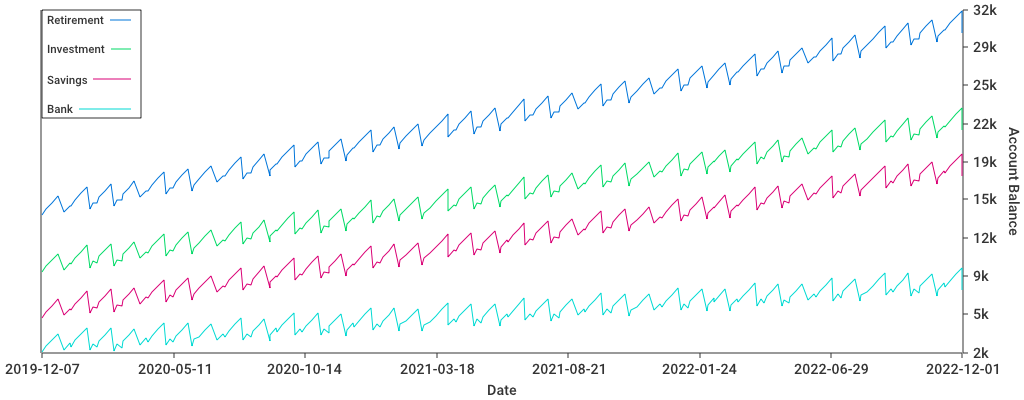
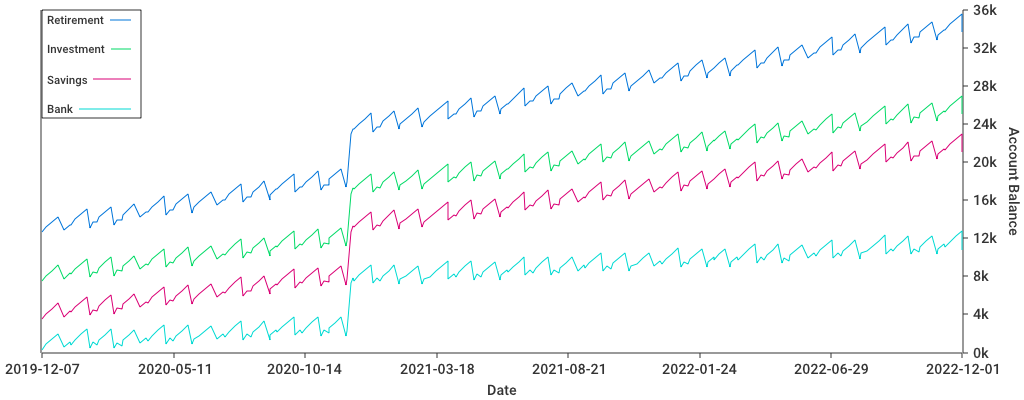
Rework schedules; add "Once" type

diff --git a/portfolio.go b/portfolio.go
@@ -7,9 +7,9 @@ import (
 
 // Portfolio represents a person's financial portfolio.
 type Portfolio struct {
-	Accounts              []*Account
-	ScheduledTransactions []*ScheduledTransaction
-	ManualAdjustments     []*ManualAdjustment
+	Accounts          []*Account
+	Transactions      []*Transaction
+	ManualAdjustments []*ManualAdjustment
 }
 
 // ProjectionRecord is a record in a projection.
@@ -26,9 +26,6 @@ func (p *Portfolio) Project(from, to time.Time) []ProjectionRecord {
 		if adj.Time.Before(from) {
 			adj.Apply(adj.Time)
 		}
-	}
-	for _, trans := range p.ScheduledTransactions {
-		trans.lastApplied = from
 	}
 
 	var recs []ProjectionRecord
@@ -48,7 +45,7 @@ func (p *Portfolio) Project(from, to time.Time) []ProjectionRecord {
 			}
 		}
 
-		for _, trans := range p.ScheduledTransactions {
+		for _, trans := range p.Transactions {
 			if trans.Apply(now) {
 				changed = true
 			}
@@ -99,16 +96,16 @@ func (p *Portfolio) NewManualAdjustment(acc *Account, t time.Time, balance float
 	p.ManualAdjustments = newArr
 }
 
-// NewScheduledTransaction adds a new scheduled transaction to the portfolio.
-func (p *Portfolio) NewScheduledTransaction(from, to *Account, desc string, f Frequency, amt float32) *ScheduledTransaction {
-	t := &ScheduledTransaction{
+// NewTransaction adds a new transaction to the portfolio.
+func (p *Portfolio) NewTransaction(from, to *Account, desc string, s Schedule, amt float32) *Transaction {
+	t := &Transaction{
 		Description: desc,
-		Frequency:   f,
+		Schedule:    s,
 		FromAccount: from,
 		ToAccount:   to,
 		Amount:      amt,
 	}
-	p.ScheduledTransactions = append(p.ScheduledTransactions, t)
+	p.Transactions = append(p.Transactions, t)
 	return t
 }
 
@@ -131,71 +128,103 @@ func (a *ManualAdjustment) Apply(now time.Time) bool {
 	return true
 }
 
-// Frequency determines the next time for a scheduled transaction to be applied, based on the last time it was applied.
-type Frequency interface {
-	Next(time.Time) time.Time
+// Schedule determines the next time for a transaction to be applied, based on the last time it was applied.
+type Schedule interface {
+	ShouldApply(time.Time) bool
 }
 
-// Weekly frequency will run weekly on the given weekday.
-func Weekly(day time.Weekday) Frequency {
-	return weeklyFrequency{day}
-}
-
-type weeklyFrequency struct {
-	weekday time.Weekday
-}
-
-func (f weeklyFrequency) Next(t time.Time) time.Time {
-	n := t.AddDate(0, 0, 7)
-	for n.Weekday() != f.weekday {
-		n = n.AddDate(0, 0, -1)
+// Weekly schedule will run weekly on the given weekday.
+func Weekly(day time.Weekday) Schedule {
+	return &weeklySchedule{
+		weekday: day,
 	}
-	return n
 }
 
-type monthlyFrequency struct {
-	day int
-}
-
-// Monthly frequency will run monthly on the given day of the month.
-func Monthly(day int) Frequency {
-	return monthlyFrequency{day}
-}
-
-func (f monthlyFrequency) Next(t time.Time) time.Time {
-	year, month, _ := t.AddDate(0, 1, 0).Date()
-	return time.Date(year, month, f.day, 0, 0, 0, 0, time.Local)
-}
-
-// ScheduledTransaction is a scheduled transaction from one account to another on a set frequency.
-// If FromAccount or ToAccount is nil, this transaction represents money in/out of the portfolio (payments, income, etc.).
-// Otherwise it is a transfer between two accounts in the portfolio.
-type ScheduledTransaction struct {
-	Description string
-	Frequency   Frequency
-	FromAccount *Account
-	ToAccount   *Account
-	Amount      float32
+type weeklySchedule struct {
+	weekday     time.Weekday
 	lastApplied time.Time
 }
 
-// Apply the scheduled transaction.
-func (s *ScheduledTransaction) Apply(now time.Time) bool {
-	next := s.Frequency.Next(s.lastApplied)
-	if now.Before(next) {
+func (s *weeklySchedule) ShouldApply(t time.Time) bool {
+	n := s.lastApplied.AddDate(0, 0, 7)
+	for n.Weekday() != s.weekday {
+		n = n.AddDate(0, 0, -1)
+	}
+	if t.Before(n) {
+		return false
+	}
+	s.lastApplied = t
+	return true
+}
+
+type monthlySchedule struct {
+	day         int
+	lastApplied time.Time
+}
+
+// Monthly schedule will run monthly on the given day of the month.
+func Monthly(day int) Schedule {
+	return &monthlySchedule{
+		day: day,
+	}
+}
+
+func (s *monthlySchedule) ShouldApply(t time.Time) bool {
+	year, month, _ := s.lastApplied.AddDate(0, 1, 0).Date()
+	if t.Before(time.Date(year, month, s.day, 0, 0, 0, 0, time.Local)) {
+		return false
+	}
+	s.lastApplied = t
+	return true
+}
+
+type onceSchedule struct {
+	time    time.Time
+	applied bool
+}
+
+// Once schedule will run once at the given time.
+func Once(t time.Time) Schedule {
+	return &onceSchedule{
+		time: t,
+	}
+}
+
+func (s *onceSchedule) ShouldApply(t time.Time) bool {
+	if s.applied || t.Before(s.time) {
+		return false
+	}
+	s.applied = true
+	return true
+}
+
+// Transaction is a transaction from one account to another.
+// It may have a schedule to repeat the transaction on some interval.
+// If FromAccount or ToAccount is nil, this transaction represents money in/out of the portfolio (payments, income, etc.).
+// Otherwise it is a transfer between two accounts in the portfolio.
+type Transaction struct {
+	Description string
+	Schedule    Schedule
+	FromAccount *Account
+	ToAccount   *Account
+	Amount      float32
+}
+
+// Apply the transaction.
+func (t *Transaction) Apply(now time.Time) bool {
+	if !t.Schedule.ShouldApply(now) {
 		return false
 	}
 
 	// If either account is nil, the transaction represents money in/out of the overall portfolio
-	if s.FromAccount != nil {
-		s.FromAccount.Balance -= s.Amount
+	if t.FromAccount != nil {
+		t.FromAccount.Balance -= t.Amount
 	}
-	if s.ToAccount != nil {
-		s.ToAccount.Balance += s.Amount
+	if t.ToAccount != nil {
+		t.ToAccount.Balance += t.Amount
 	}
-	s.lastApplied = now
 
-	fmt.Printf("Applied %s, %s\n", now.Format("2006-01-02"), s.Description)
+	fmt.Printf("Applied %s, %s\n", now.Format("2006-01-02"), t.Description)
 	return true
 }
 
@@ -205,20 +234,21 @@ type Account struct {
 	Name               string
 	Balance            float32
 	AnnualInterestRate float32
-	lastInterest       time.Time
+	interestSchedule   Schedule
 }
 
 // GainInterest adds interest to the account.
 func (a *Account) GainInterest(now time.Time) bool {
-	f := Monthly(1)
+	if a.interestSchedule == nil {
+		a.interestSchedule = Monthly(1)
+	}
 
-	if now.Before(f.Next(a.lastInterest)) {
+	if !a.interestSchedule.ShouldApply(now) {
 		return false
 	}
 
 	monthlyInterest := a.AnnualInterestRate / 12
 	a.Balance = a.Balance * (1 + monthlyInterest)
 
-	a.lastInterest = now
 	return true
 }

diff --git a/parser.go b/parser.go
@@ -42,7 +42,7 @@ func Parse(r io.Reader) (*Portfolio, error) {
 		p.NewManualAdjustment(acc, time.Time(man.Time), man.Balance)
 	}
 
-	for _, trans := range spec.ScheduledTransactions {
+	for _, trans := range spec.Transactions {
 		var from *Account
 		var to *Account
 		if trans.FromAccount != 0 {
@@ -59,7 +59,10 @@ func Parse(r io.Reader) (*Portfolio, error) {
 				return nil, fmt.Errorf("invalid account: %d", trans.ToAccount)
 			}
 		}
-		p.NewScheduledTransaction(from, to, trans.Description, trans.Frequency.parsed, trans.Amount)
+		if trans.Schedule.parsed == nil {
+			return nil, fmt.Errorf("transaction '%s' missing schedule", trans.Description)
+		}
+		p.NewTransaction(from, to, trans.Description, trans.Schedule.parsed, trans.Amount)
 	}
 
 	return p, nil
@@ -76,13 +79,13 @@ type portfolioSpec struct {
 		Time    laxTime `yaml:"time"`
 		Balance float32 `yaml:"balance"`
 	} `yaml:"manualAdjustments"`
-	ScheduledTransactions []struct {
-		FromAccount int           `yaml:"fromAccount"`
-		ToAccount   int           `yaml:"toAccount"`
-		Description string        `yaml:"description"`
-		Amount      float32       `yaml:"amount"`
-		Frequency   jsonFrequency `yaml:"frequency"`
-	} `yaml:"scheduledTransactions"`
+	Transactions []struct {
+		FromAccount int          `yaml:"fromAccount"`
+		ToAccount   int          `yaml:"toAccount"`
+		Description string       `yaml:"description"`
+		Amount      float32      `yaml:"amount"`
+		Schedule    jsonSchedule `yaml:"schedule"`
+	} `yaml:"transactions"`
 }
 
 type laxTime time.Time
@@ -108,11 +111,11 @@ func (l *laxTime) UnmarshalYAML(unmarshal func(interface{}) error) error {
 	return fmt.Errorf("failed to parse time as any of the valid formats: last error: %v", err)
 }
 
-type jsonFrequency struct {
-	parsed Frequency
+type jsonSchedule struct {
+	parsed Schedule
 }
 
-var jsonFrequencyRegex = regexp.MustCompile(`^(\w+)(\(.*\))?$`)
+var jsonScheduleRegex = regexp.MustCompile(`^(\w+)(\(.*\))?$`)
 
 var daysOfWeek = map[string]time.Weekday{
 	"sunday":    time.Sunday,
@@ -124,13 +127,13 @@ var daysOfWeek = map[string]time.Weekday{
 	"saturday":  time.Saturday,
 }
 
-func (f *jsonFrequency) UnmarshalYAML(unmarshal func(interface{}) error) error {
+func (f *jsonSchedule) UnmarshalYAML(unmarshal func(interface{}) error) error {
 	var s string
 	if err := unmarshal(&s); err != nil {
 		return err
 	}
 
-	matches := jsonFrequencyRegex.FindStringSubmatch(s)
+	matches := jsonScheduleRegex.FindStringSubmatch(s)
 	if len(matches) > 1 {
 		var args []string
 		if len(matches) > 2 {
@@ -146,7 +149,7 @@ func (f *jsonFrequency) UnmarshalYAML(unmarshal func(interface{}) error) error {
 					return fmt.Errorf("invalid weekday: %s", args[0])
 				}
 			}
-			*f = jsonFrequency{Weekly(day)}
+			*f = jsonSchedule{Weekly(day)}
 			return nil
 		case "Monthly":
 			day := 1
@@ -157,9 +160,20 @@ func (f *jsonFrequency) UnmarshalYAML(unmarshal func(interface{}) error) error {
 					return err
 				}
 			}
-			*f = jsonFrequency{Monthly(day)}
+			f.parsed = Monthly(day)
+			return nil
+		case "Once":
+			if len(args) != 1 {
+				return fmt.Errorf("Once schedule requires a date")
+			}
+
+			t, err := time.Parse("2006-01-02", args[0])
+			if err != nil {
+				return err
+			}
+			f.parsed = Once(t)
 			return nil
 		}
 	}
-	return fmt.Errorf("invalid frequency: %s", s)
+	return fmt.Errorf("invalid schedule: %s", s)
 }

diff --git a/cmd/munn/main.go b/cmd/munn/main.go
@@ -43,23 +43,6 @@ func main() {
 	recs := p.Project(from, to)
 
 	if *image {
-		// var series []chart.Series
-		// for _, acc := range p.Accounts {
-		// 	var x []time.Time
-		// 	var y []float64
-		// 	for _, rec := range recs {
-		// 		if rec.AccountName == acc.Name {
-		// 			x = append(x, rec.Time)
-		// 			y = append(y, float64(rec.Balance))
-		// 		}
-		// 	}
-		// 	series = append(series, chart.TimeSeries{
-		// 		Name:    acc.Name,
-		// 		XValues: x,
-		// 		YValues: y,
-		// 	})
-		// }
-
 		var sum float32
 		var lastTime time.Time
 		seriesMap := make(map[string]*chart.TimeSeries)
